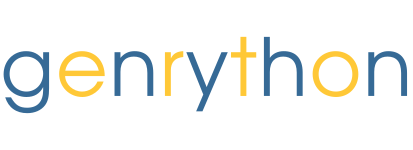
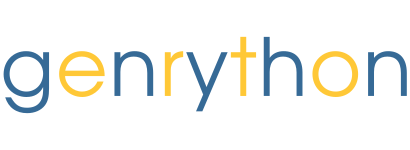
Site updated: 2018-04-10 12:26:00

Changed region(s): [[0.0878, 0.24, 0.9951, 0.7467], [0.0878, 0.5867, 0.1171, 0.72], [0.0878, 0.3467, 0.1171, 0.4]]

diff --git a/css/style.css b/css/style.css
@@ -274,14 +274,14 @@ code {
 .logo {
   display: block;
   padding: 10px 0;
-  width: 165px;
-  height: 60px;
-  background-image: url("images/logo-header.png");
+  width: 205px;
+  height: 75px;
+  background-image: url("images/genrythoncolors.png");
   background-position: 0px 10px;
   background-repeat: no-repeat;
-  -webkit-background-size: 165px 60px;
-  -moz-background-size: 165px 60px;
-  background-size: 165px 60px;
+  -webkit-background-size: 205px 75px;
+  -moz-background-size: 205px 75px;
+  background-size: 205px 75px;
 }
 .main-body {
   margin-top: -60px;
@@ -378,7 +378,7 @@ code {
 #header-title .subtitle {
   font-size: 16px;
   font-style: italic;
-  line-height: 70px;
+  line-height: 85px;
   color: rgba(255,255,255,0.7);
   text-shadow: 0 1px rgba(0,0,0,0.2);
 }
@@ -1655,11 +1655,11 @@ a.article-title:hover {
   line-height: 22px;
 }
 #footer .logo {
-  width: 132px;
-  height: 48px;
-  -webkit-background-size: 132px 48px;
-  -moz-background-size: 132px 48px;
-  background-size: 132px 48px;
+  width: 164px;
+  height: 60px;
+  -webkit-background-size: 164px 60px;
+  -moz-background-size: 164px 60px;
+  background-size: 164px 60px;
 }
 i.icon {
   display: inline-block;

diff --git a/2018/04/09/hello-world/index.html b/2018/04/09/hello-world/index.html
@@ -180,7 +180,7 @@
 
 
 
-    <a data-url="https://github.com/EidrianGM/aBioInformaticianBlog/2018/04/09/hello-world/" data-id="cjftifmcb0000cwt0dbyadsaq" class="article-share-link"><i class="fa fa-share"></i>Share</a>
+    <a data-url="https://github.com/EidrianGM/aBioInformaticianBlog/2018/04/09/hello-world/" data-id="cjftisy8f0000n2t0udba53av" class="article-share-link"><i class="fa fa-share"></i>Share</a>
 <script>
     (function ($) {
         $('body').on('click', function() {
